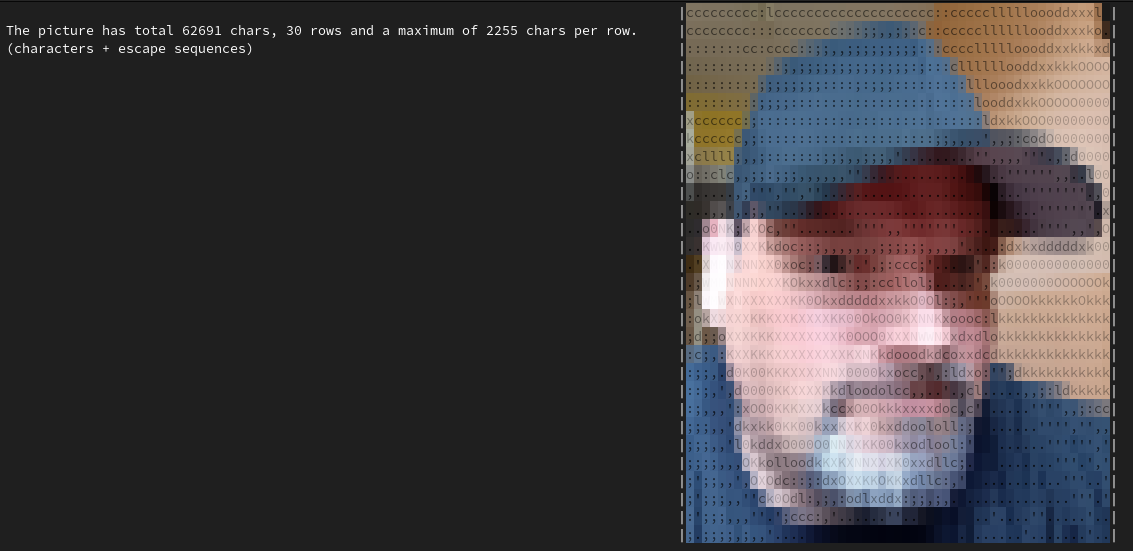
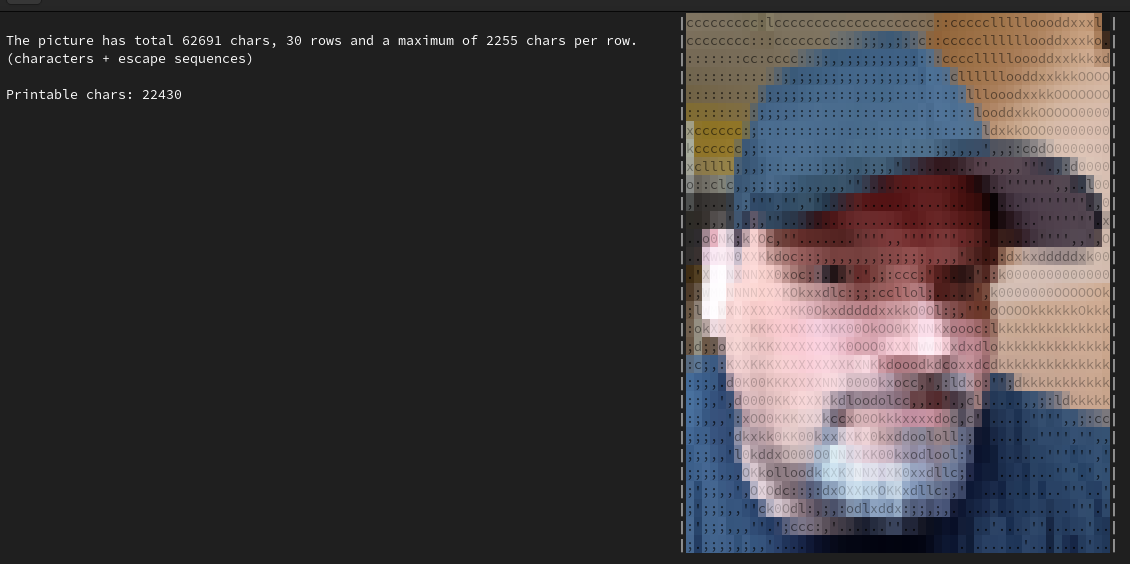
some more features...

Changed region(s): [[0.5885, 0.0, 0.9912, 0.9873], [0.0, 0.0309, 0.5575, 0.1234], [0.0, 0.1543, 0.1549, 0.1851]]

diff --git a/picinfo.c b/picinfo.c
@@ -2,6 +2,7 @@
 #include <stdlib.h>
 #include <string.h>
 #include <unistd.h>
+#include <ctype.h>
 #include "selfie.h"
 
 // This is enough for my personal picture.
@@ -16,30 +17,29 @@ It then stores the picture in a 2D array and prints it out on the right side of 
 int main(void)
 {
     size_t l = strlen(ansi_pic);
-
-    int maxcol, row, col, count = 0;
+    int maxcol = 0, row = 0, col = 0, count = 0, printable = 0, p = 0;
     char c;
     char pic_array[MAX_ROWS][MAX_COL];
+    char only_printables[30000];
 
-    c = ansi_pic[count];
+    c = *ansi_pic++;
 
     while (c != '\0' && count < l)
     {
-        pic_array[row][col] = c;
-        col++;
+        pic_array[row][col++] = c;
         count++;
-        c = ansi_pic[count];
+        c = *ansi_pic++;
         if (c == '\n')
         {
-            pic_array[row][col] = '\0';
-            row++;
-            if (col > maxcol)
-                maxcol = col;
+            pic_array[row++][col] = '\0';
+            maxcol = (col > maxcol) ? col : maxcol;
             col = 0;
             count++;
-            c = ansi_pic[count];
+            c = *ansi_pic++;
         }
     }
+    // Reset the pointer !
+    ansi_pic -= count + 1;
 
     printf("\033[2J");
     printf("\033[H");
@@ -51,14 +51,30 @@ int main(void)
         for (int i = 0; i < maxcol; i++)
         {
             printf("%c", pic_array[r][i]);
-            usleep(50); // Only for the print effect :-)
             fflush(stdout);
+            usleep(50);
+            if (isprint(pic_array[r][i]) && pic_array[r][i] != '\n')
+            {
+                char t = pic_array[r][i];
+                if ((t >= 65 && t <= 90) || (t >= 97 && t <= 122) || t == ':' || t == ';' || t == '.' || t == ',' || t == '0' || t == 39)
+                {
+                    printable++;
+                    only_printables[p++] = t;
+                }
+            }
         }
+        only_printables[p++] = '\n';
         printf("\n");
+        printf("\033[5;0HPrintable chars: %d", printable);
         printf("\033[%d;85H", (r + 2));
     }
 
+    // Null-terminate the string
+    only_printables[p] = '\0';
+
     printf("\n");
+
+    // ...
 
     return 0;
 }
